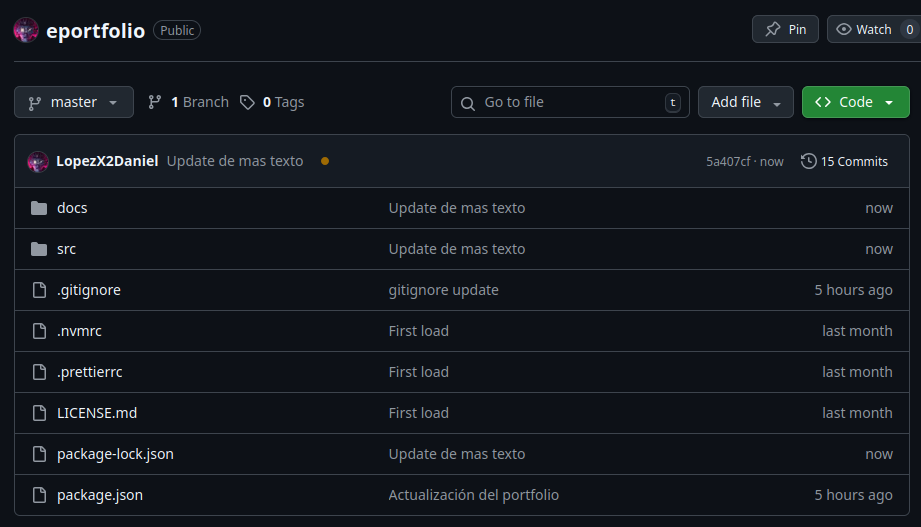
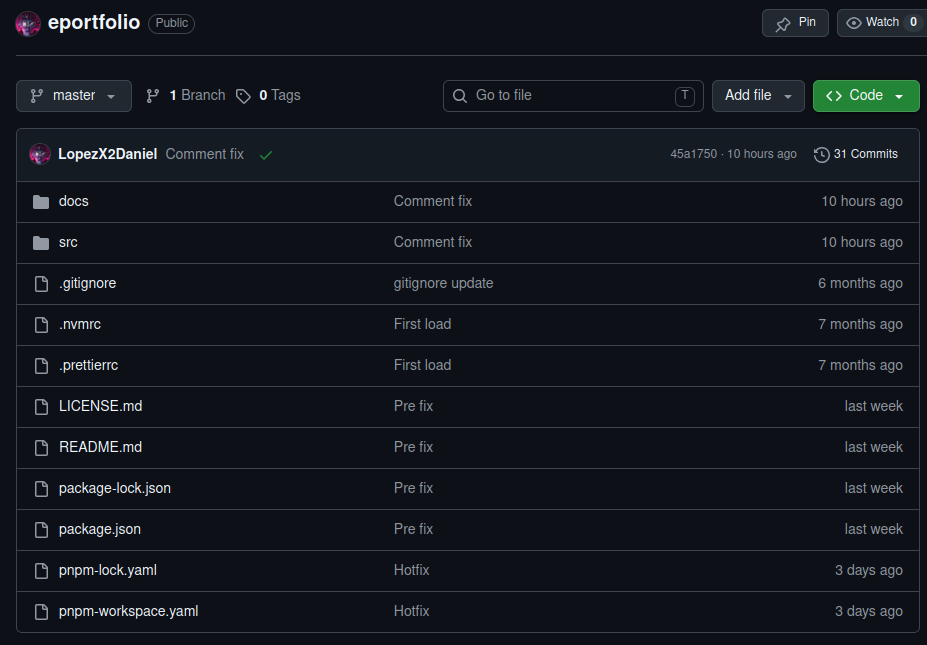
Added reflection and evaluation part

diff --git a/docs/index.html b/docs/index.html
@@ -566,11 +566,82 @@
         <div class="col-lg-8 col-sm-12">
           <div class="load-hidden project-wrapper__image" style=flex-direction:column;gap:30px;display:flex>
             <div data-tilt data-tilt-max=4 data-tilt-glare=true data-tilt-max-glare=0.5 class="js-tilt rounded thumbnail">
-              <img alt="Project Image" class=img-fluid src=/eportfolio/unit_12_a.631f1287.png>
+              <img alt="Project Image" class=img-fluid src=/eportfolio/unit_12_a.0497054e.png>
             </div>
             <div data-tilt data-tilt-max=4 data-tilt-glare=true data-tilt-max-glare=0.5 class="js-tilt rounded thumbnail">
-              <img alt="Project Image" class=img-fluid src=/eportfolio/unit_12_b.1df65a34.png>
+              <img alt="Project Image" class=img-fluid src=/eportfolio/unit_12_b.d563605b.png>
             </div>
+          </div>
+        </div>
+      </div>
+
+      <div class=row>
+          <div class="load-hidden project-wrapper__text">
+            <h3 id=versus class=project-wrapper__text-title>Unit 11 project versus Unit 6</h3>
+            <div>
+              <p class=mb-4>
+                There are significant differences between the Unit 6 project and the Unit 11 project. Although both involve Machine Learning exercises, there are two clear distinctions.
+              </p>
+              <p class=mb-4>
+                First, the Unit 6 project was a team effort, which helped distribute the workload and provided more hands to work toward the same goal, in contrast, Unit 11 was an individual assignment where full responsibility and progress rested solely on me.
+              </p>
+              <p class=mb-4>
+                Second, Unit 6 involved a classic Machine Learning case study, specifically regression and clustering, which reduced the complexity. For Unit 11, however, I had to implement a convolutional neural network model, a concept entirely new to me. This required me to first research, read, and learn about this type of Deep Learning before writing the network's code, ensuring I understood the function of each part of the code and how hyperparameters influenced the final result.
+              </p>
+              <p class=mb-4>
+                From a technical standpoint, there is a major difference between analyzing time series data and images (which are ultimately just pixels). The choice of model depends on the type of data being analysed. For instance, when training a Random Forest model in classic ML, the "RandomForestRegressor" library is used for time series prediction, whereas "RandomForestClassifier" is used when predicting Boolean output values, that is, "True" or "False."
+              </p>
+              <p class=mb-4>
+                Similarly, model configuration and hyperparameter tuning tend to be far more complex in Deep Learning than in classic ML. There is no strict formula for convolutional network architecture that guarantees satisfactory results every time. Decisions regarding the number of convolutional or pooling layers, pixel dimensions, or whether to include dropout layers depend entirely on the input data and how the model behaves with each modification. Not to mention that available hardware is another variable that must be taken into account.
+              </p>
+              <p class=mb-4>
+                Debugging also proved to be a different experience between both projects. In Unit 6, when an issue is detected, it was often easier to identify since classic ML models are more interpretable and their outputs more predictable. In Unit 11, troubleshooting a convolutional neural network was considerably more challenging, as errors could stem from multiple sources, whether from the data itself, the architecture, or the hyperparameters, making it harder to pinpoint the exact cause.
+              </p>
+              <p class=mb-4>
+                Beyond the technical skills, Unit 11 pushed me to develop greater autonomy and problem-solving abilities, since I could not rely on teammates to fill knowledge gaps or catch mistakes. This experience strengthened my confidence in tackling unfamiliar topics independently, a skill I consider valuable for future projects.
+              </p>
+              <p class=mb-4>
+                I really enjoyed working on both projects, the opportunity to work in a team and meet new classmates during Unit 6 was rewarding, and across both projects, I was able to go beyond ML theory and work with real-world examples. In fact, this motivated me to apply ML models in my work, given that there are currently no initiatives in this area.
+              </p>
+            </div>
+          </div>
+      </div>
+
+      <div class=row>
+        <div class="load-hidden project-wrapper__text">
+          <h3 id=module_reflections class=project-wrapper__text-title>Key reflective points</h3>
+          <h3 id=extended class=project-wrapper__text-subtitle>(extended from the reflective section essay in PDF)</h3>
+          <br>
+          <br>
+          <div>
+            <h3 id=on_acquired_knowledge class=project-wrapper__text-subtitle>On acquired knowledge:</h3>
+            <p class=mb-4>
+              I developed a progressive understanding of classical machine learning, ranging from covariance, correlation, and regression (Unit 3) and similarity metrics like Jaccard (Unit 5) to ensemble models such as Random Forest and XGBoost (Unit 6).
+            </p>
+            <p class=mb-4>
+              I built a theoretical foundation for neural networks from scratch, understanding the limitations of a simple perceptron in solving linearly separable problems and how multilayer perceptrons overcome that limitation (Unit 7).
+            </p>
+            <p class=mb-4>
+              I gained practical insight into the mechanics of gradient descent and the critical role of the learning rate in model convergence (Unit 8).
+            </p>
+            <p class=mb-4>
+              I acquired solid knowledge of deep learning (specifically convolutional neural networks) including the purpose of convolutional and pooling layers and the impact of hyperparameters on final outcomes (Units 9 and 11).
+            </p>
+            <p class=mb-4>
+              I learned to critically evaluate models using various performance metrics and to apply explainability techniques such as SHAP/LIME or Grad-CAM to interpret decisions made by "black-box" models (Unit 11).
+            </p>
+            <br>
+            <br>
+            <h3 id=on_team_contribution class=project-wrapper__text-subtitle>On team contribution:</h3>
+            <p class=mb-4>
+              I served as the coordination liaison for the Unit 6 Team Project, organizing Zoom meetings and maintaining constant communication with the team via WhatsApp.
+            </p>
+            <p class=mb-4>
+              I added technical value to the team by taking responsibility for the project's regression component, like training and comparing Random Forest and XGBoost models on text data, and accelerated training by using my 3060 Ti GPU.
+            </p>
+            <p class=mb-4>
+              I actively participated in peer reviews, both by evaluating teammates' work and completing assessment templates, which enhanced the project's overall quality.I really enjoyed working on both projects, the opportunity to work in a team and meet new classmates during Unit 6 was rewarding, and across both projects, I was able to go beyond ML theory and work with real-world examples.
+            </p>
           </div>
         </div>
       </div>

diff --git a/src/index.html b/src/index.html
@@ -821,6 +821,77 @@
         </div>
       </div>
 
+      <div class="row">
+          <div class="project-wrapper__text load-hidden">
+            <h3 id="versus" class="project-wrapper__text-title">Unit 11 project versus Unit 6</h3>
+            <div>
+              <p class="mb-4">
+                There are significant differences between the Unit 6 project and the Unit 11 project. Although both involve Machine Learning exercises, there are two clear distinctions.
+              </p>
+              <p class="mb-4">
+                First, the Unit 6 project was a team effort, which helped distribute the workload and provided more hands to work toward the same goal, in contrast, Unit 11 was an individual assignment where full responsibility and progress rested solely on me.
+              </p>
+              <p class="mb-4">
+                Second, Unit 6 involved a classic Machine Learning case study, specifically regression and clustering, which reduced the complexity. For Unit 11, however, I had to implement a convolutional neural network model, a concept entirely new to me. This required me to first research, read, and learn about this type of Deep Learning before writing the network's code, ensuring I understood the function of each part of the code and how hyperparameters influenced the final result.
+              </p>
+              <p class="mb-4">
+                From a technical standpoint, there is a major difference between analyzing time series data and images (which are ultimately just pixels). The choice of model depends on the type of data being analysed. For instance, when training a Random Forest model in classic ML, the "RandomForestRegressor" library is used for time series prediction, whereas "RandomForestClassifier" is used when predicting Boolean output values, that is, "True" or "False."
+              </p>
+              <p class="mb-4">
+                Similarly, model configuration and hyperparameter tuning tend to be far more complex in Deep Learning than in classic ML. There is no strict formula for convolutional network architecture that guarantees satisfactory results every time. Decisions regarding the number of convolutional or pooling layers, pixel dimensions, or whether to include dropout layers depend entirely on the input data and how the model behaves with each modification. Not to mention that available hardware is another variable that must be taken into account.
+              </p>
+              <p class="mb-4">
+                Debugging also proved to be a different experience between both projects. In Unit 6, when an issue is detected, it was often easier to identify since classic ML models are more interpretable and their outputs more predictable. In Unit 11, troubleshooting a convolutional neural network was considerably more challenging, as errors could stem from multiple sources, whether from the data itself, the architecture, or the hyperparameters, making it harder to pinpoint the exact cause.
+              </p>
+              <p class="mb-4">
+                Beyond the technical skills, Unit 11 pushed me to develop greater autonomy and problem-solving abilities, since I could not rely on teammates to fill knowledge gaps or catch mistakes. This experience strengthened my confidence in tackling unfamiliar topics independently, a skill I consider valuable for future projects.
+              </p>
+              <p class="mb-4">
+                I really enjoyed working on both projects, the opportunity to work in a team and meet new classmates during Unit 6 was rewarding, and across both projects, I was able to go beyond ML theory and work with real-world examples. In fact, this motivated me to apply ML models in my work, given that there are currently no initiatives in this area.
+              </p>
+            </div>
+          </div>
+      </div>
+
+      <div class="row">
+        <div class="project-wrapper__text load-hidden">
+          <h3 id="module_reflections" class="project-wrapper__text-title">Key reflective points</h3>
+          <h3 id="extended" class="project-wrapper__text-subtitle">(extended from the reflective section essay in PDF)</h3>
+          <br>
+          <br>
+          <div>
+            <h3 id="on_acquired_knowledge" class="project-wrapper__text-subtitle">On acquired knowledge:</h3>
+            <p class="mb-4">
+              I developed a progressive understanding of classical machine learning, ranging from covariance, correlation, and regression (Unit 3) and similarity metrics like Jaccard (Unit 5) to ensemble models such as Random Forest and XGBoost (Unit 6).
+            </p>
+            <p class="mb-4">
+              I built a theoretical foundation for neural networks from scratch, understanding the limitations of a simple perceptron in solving linearly separable problems and how multilayer perceptrons overcome that limitation (Unit 7).
+            </p>
+            <p class="mb-4">
+              I gained practical insight into the mechanics of gradient descent and the critical role of the learning rate in model convergence (Unit 8).
+            </p>
+            <p class="mb-4">
+              I acquired solid knowledge of deep learning (specifically convolutional neural networks) including the purpose of convolutional and pooling layers and the impact of hyperparameters on final outcomes (Units 9 and 11).
+            </p>
+            <p class="mb-4">
+              I learned to critically evaluate models using various performance metrics and to apply explainability techniques such as SHAP/LIME or Grad-CAM to interpret decisions made by "black-box" models (Unit 11).
+            </p>
+            <br>
+            <br>
+            <h3 id="on_team_contribution" class="project-wrapper__text-subtitle">On team contribution:</h3>
+            <p class="mb-4">
+              I served as the coordination liaison for the Unit 6 Team Project, organizing Zoom meetings and maintaining constant communication with the team via WhatsApp.
+            </p>
+            <p class="mb-4">
+              I added technical value to the team by taking responsibility for the project's regression component, like training and comparing Random Forest and XGBoost models on text data, and accelerated training by using my 3060 Ti GPU.
+            </p>
+            <p class="mb-4">
+              I actively participated in peer reviews, both by evaluating teammates' work and completing assessment templates, which enhanced the project's overall quality.I really enjoyed working on both projects, the opportunity to work in a team and meet new classmates during Unit 6 was rewarding, and across both projects, I was able to go beyond ML theory and work with real-world examples.
+            </p>
+          </div>
+        </div>
+      </div>
+
 
       <div class="row align-items-center mb-20">
         <div class="col-lg-4 col-sm-12">